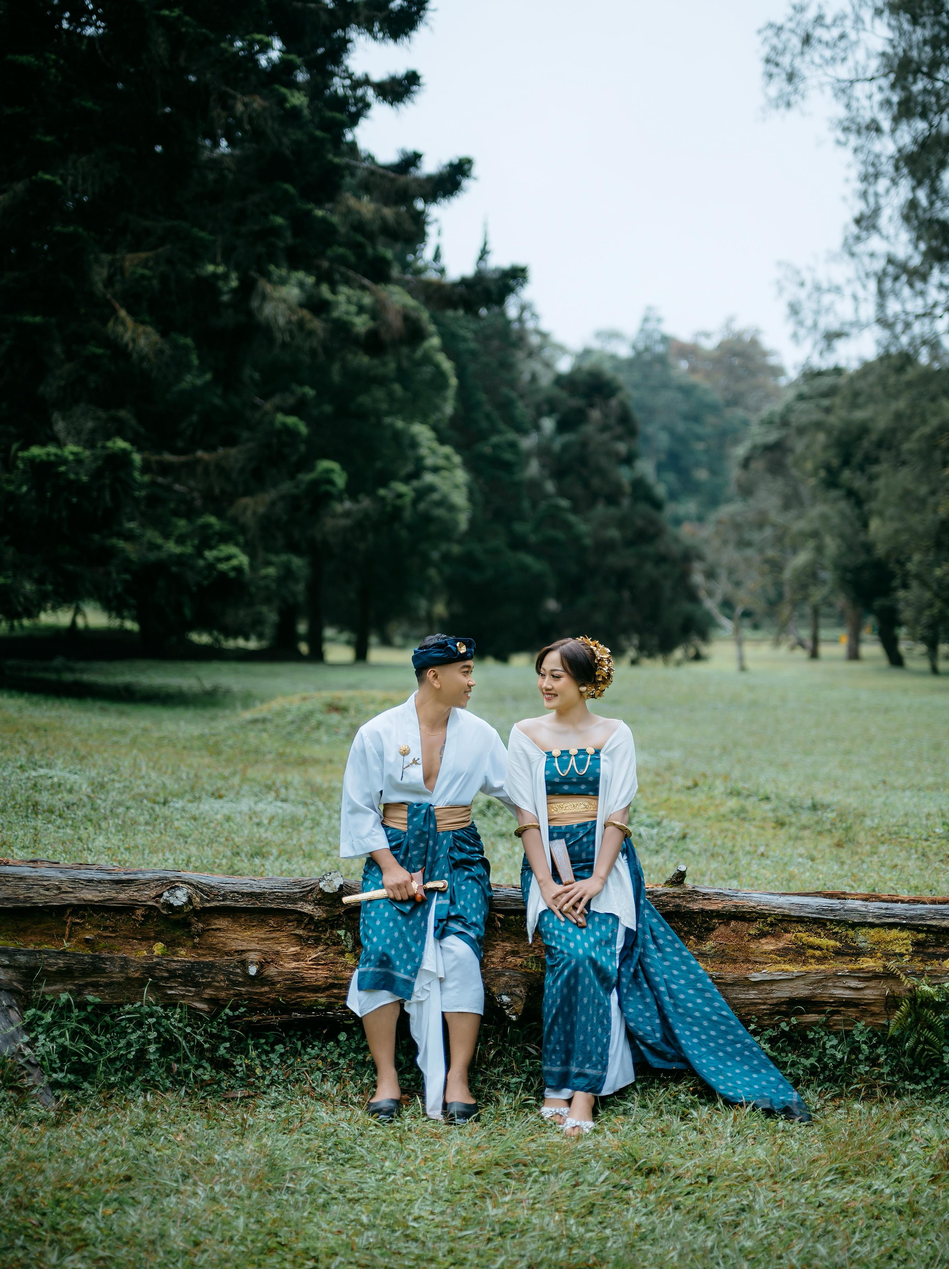
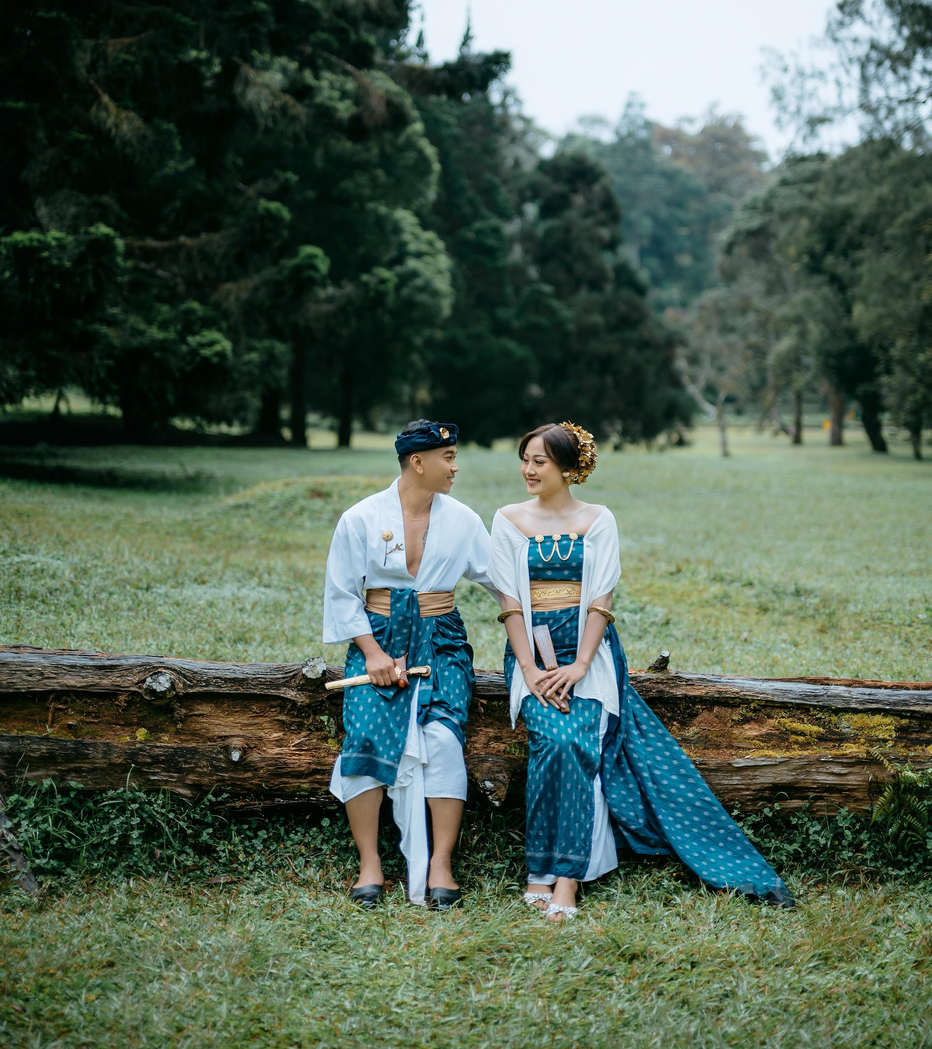
fix final

diff --git a/app/components/MusicToggle.tsx b/app/components/MusicToggle.tsx
@@ -12,65 +12,39 @@ export default function MusicToggle({ isPlaying, onToggle }: MusicToggleProps) {
       aria-label={isPlaying ? "Mute music" : "Play music"}
       className={`
         fixed bottom-6 right-6 z-50
-        w-14 h-14 rounded-full
+        w-12 h-12 rounded-full
         flex items-center justify-center
-        shadow-lg shadow-black/30
-        transition-all duration-500 ease-in-out
-        backdrop-blur-md
-        border
-        ${
-          isPlaying
-            ? "bg-gradient-to-br from-amber-600/80 to-amber-800/80 border-amber-400/50 hover:from-amber-500/90 hover:to-amber-700/90"
-            : "bg-white/10 border-white/20 hover:bg-white/20"
-        }
+        transition-all duration-300 ease-in-out
+        backdrop-blur-sm
+        border border-white/20
+        bg-black/30 hover:bg-black/50
       `}
     >
-      {/* Ripple ring animation when playing */}
-      {isPlaying && (
-        <>
-          <span className="absolute inset-0 rounded-full border-2 border-amber-400/40 animate-ping" />
-          <span className="absolute inset-[-4px] rounded-full border border-amber-400/20 animate-pulse" />
-        </>
-      )}
-
       <div className="relative flex items-center justify-center">
         {isPlaying ? (
-          /* Music note icon with animated bars */
-          <div className="flex items-end gap-[3px]">
-            <span
-              className="w-[3px] rounded-full bg-white animate-music-bar-1"
-              style={{ height: "14px" }}
-            />
-            <span
-              className="w-[3px] rounded-full bg-white animate-music-bar-2"
-              style={{ height: "18px" }}
-            />
-            <span
-              className="w-[3px] rounded-full bg-white animate-music-bar-3"
-              style={{ height: "10px" }}
-            />
-            <span
-              className="w-[3px] rounded-full bg-white animate-music-bar-4"
-              style={{ height: "16px" }}
-            />
+          /* Music bars — playing */
+          <div className="flex items-end gap-[2px]">
+            <span className="w-[2.5px] rounded-full bg-white/80 animate-music-bar-1" style={{ height: "12px" }} />
+            <span className="w-[2.5px] rounded-full bg-white/80 animate-music-bar-2" style={{ height: "16px" }} />
+            <span className="w-[2.5px] rounded-full bg-white/80 animate-music-bar-3" style={{ height: "9px" }} />
+            <span className="w-[2.5px] rounded-full bg-white/80 animate-music-bar-4" style={{ height: "14px" }} />
           </div>
         ) : (
-          /* Muted music icon */
+          /* Music note icon — paused */
           <svg
             xmlns="http://www.w3.org/2000/svg"
-            className="w-6 h-6 text-white/60"
+            className="w-5 h-5 text-white/60"
             fill="none"
             viewBox="0 0 24 24"
             stroke="currentColor"
-            strokeWidth={1.8}
+            strokeWidth={1.5}
           >
             <path
               strokeLinecap="round"
               strokeLinejoin="round"
               d="M9 19V6l12-3v13M9 19c0 1.105-1.343 2-3 2s-3-.895-3-2 1.343-2 3-2 3 .895 3 2zm12-3c0 1.105-1.343 2-3 2s-3-.895-3-2 1.343-2 3-2 3 .895 3 2z"
             />
-            {/* Slash line for muted */}
-            <line x1="3" y1="3" x2="21" y2="21" strokeWidth={2} />
+            <line x1="3" y1="3" x2="21" y2="21" strokeWidth={1.5} />
           </svg>
         )}
       </div>

diff --git a/app/components/CoverOverlay.tsx b/app/components/CoverOverlay.tsx
@@ -35,7 +35,7 @@ export default function CoverOverlay({
         {/* Background image — fullscreen, shifted slightly down */}
         <div
           className="absolute inset-0 bg-cover bg-no-repeat"
-          style={{ backgroundImage: "url('/images/foto1.jpeg')", backgroundPosition: "center 80%" }}
+          style={{ backgroundImage: "url('/images/foto1.jpeg')", backgroundPosition: "center 50%" }}
         />
         {/* Dark overlay */}
         <div className="absolute inset-0 bg-black/50" />
@@ -53,7 +53,7 @@ export default function CoverOverlay({
         </motion.div>
 
         {/* Bottom section: guest info, button, disclaimer */}
-        <div className="relative z-10 flex flex-col items-center pb-32 sm:pb-36 md:pb-40 px-6 w-full">
+        <div className="relative z-10 flex flex-col items-center pb-6 sm:pb-20 md:pb-28 px-6 w-full">
           <motion.div
             initial={{ opacity: 0, y: 30 }}
             animate={{ opacity: 1, y: 0 }}
